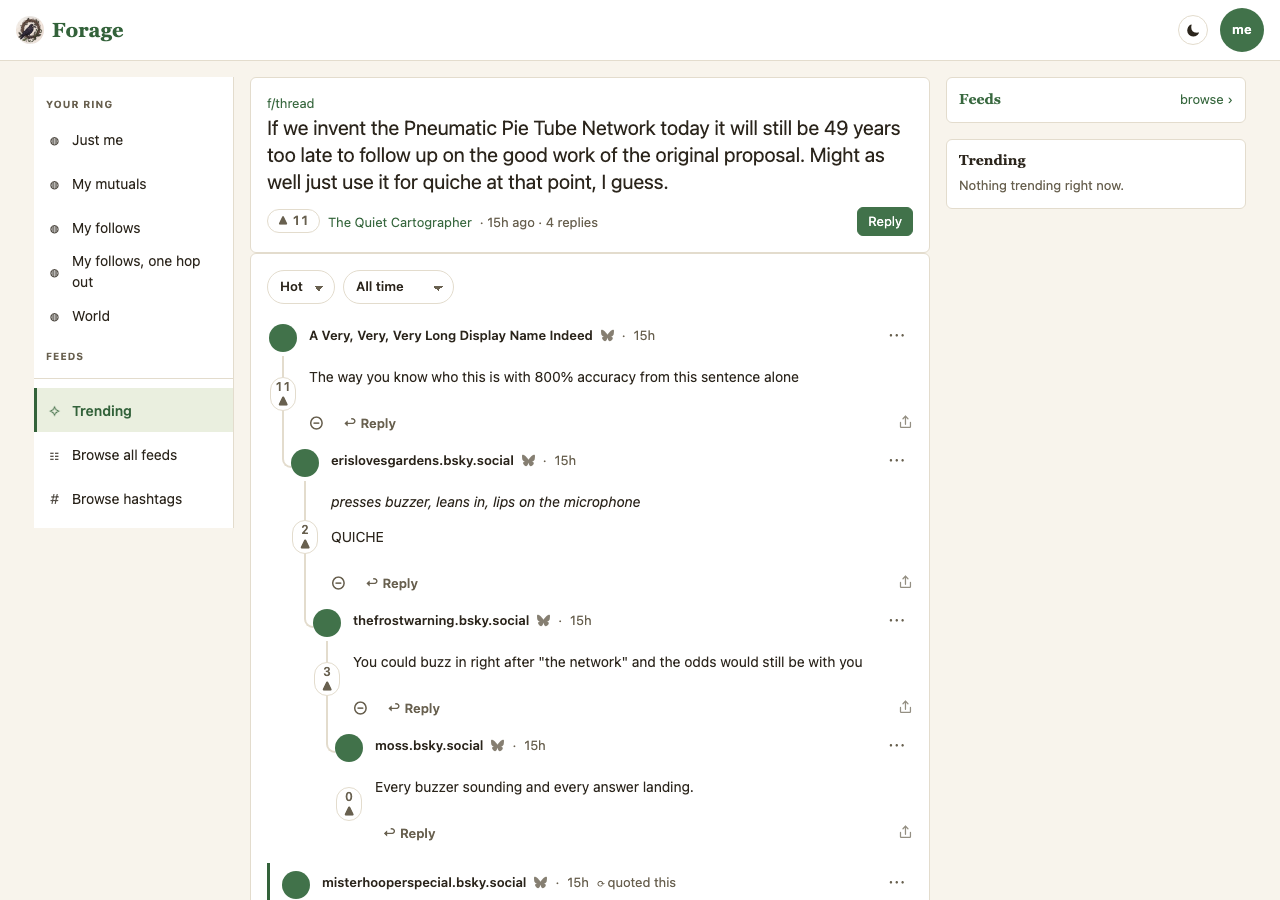
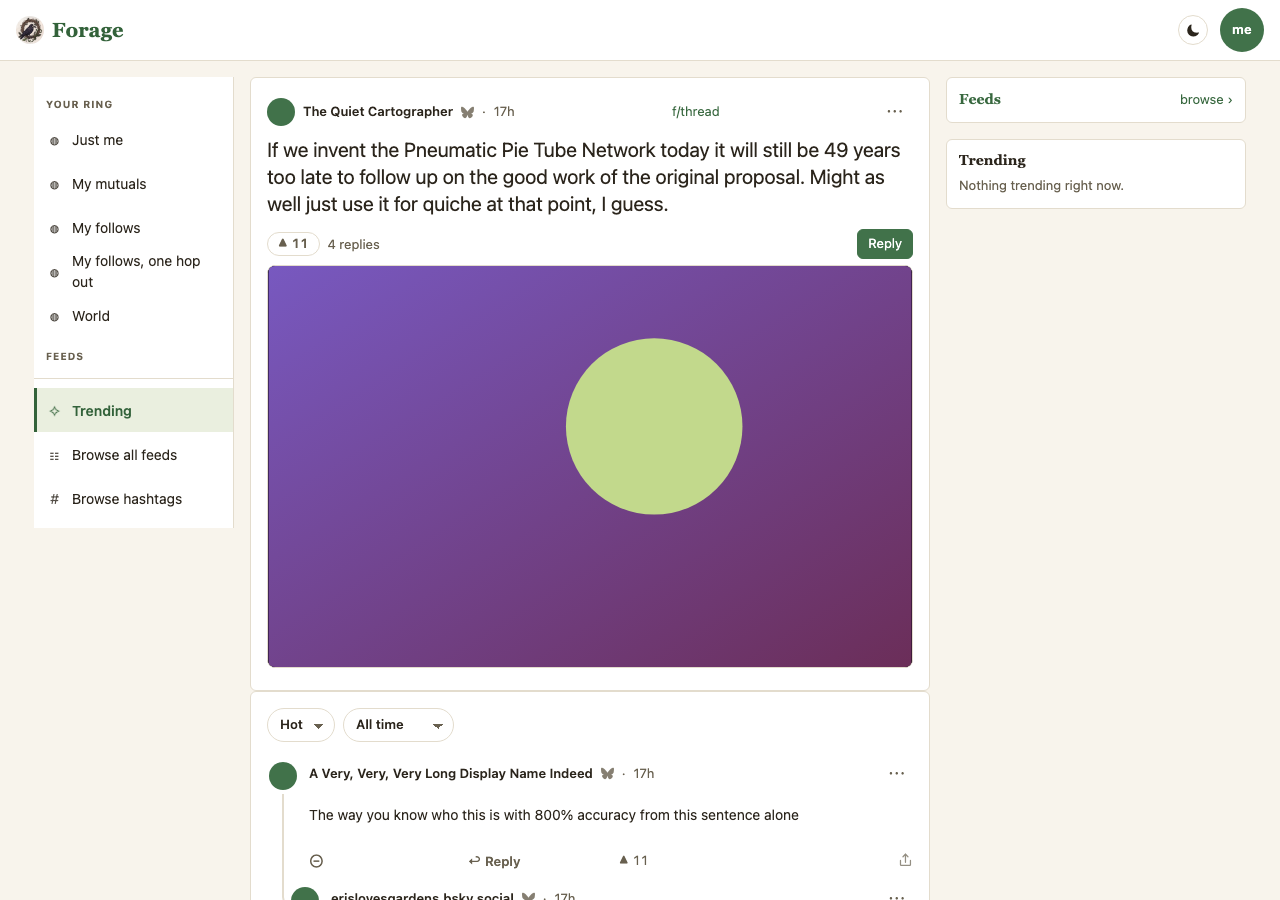
mocks: feed-row v11 — Reply at the bottom, the quote's own bar, Browse hides inactive (decisions 23, 24, 26); 25 designed; F–K filed; captured
Current re-captured at main ad29be5 under the new population (the root
carries a picture), Proposed forage@7d138e0: thread-lens and a new
thread-lens-quote route, both viewports.

Claude-Session: https://claude.ai/code/session_01JJMobiGXqKABdRYsHV8fNn

Changed region(s): [[0.1875, 0.0933, 0.7188, 1.0], [0.6875, 0.9956, 0.7188, 1.0]]

diff --git a/plans/mocks/feed-row.html b/plans/mocks/feed-row.html
@@ -3,10 +3,10 @@
 <head>
 <meta charset="utf-8">
 <meta name="viewport" content="width=device-width,initial-scale=1">
-<title>Forage Feed Row Proposals v10</title>
-<meta name="mock-version" content="10">
+<title>Forage Feed Row Proposals v11</title>
+<meta name="mock-version" content="11">
 <meta name="mock-baseline" content="forage@ad29be5">
-<meta name="mock-proposal" content="forage@ba62395">
+<meta name="mock-proposal" content="forage@7d138e0">
 <style>
 :root{--page-bg:#EFE9DE;--page-card:#F8F4EC;--page-ink:#2B251C;--page-muted:#6B6252;--page-line:#DED5C4;--page-accent:#33623A;
   --f-body:system-ui,-apple-system,"Segoe UI",Roboto,sans-serif;--f-display:ui-serif,Georgia,"Times New Roman",serif}
@@ -43,13 +43,13 @@ code{font-size:.92em}
 <body>
 <div class="wrap">
   <header>
-    <div class="eyebrow">Forage · mock · feed-row <b>v10</b> · Current forage@ad29be5 · Proposed forage@ba62395 · 2026-08-30</div>
+    <div class="eyebrow">Forage · mock · feed-row <b>v11</b> · Current forage@ad29be5 · Proposed forage@7d138e0 · 2026-08-30</div>
     <h1>The feed row, made to agree with the phone</h1>
-    <p class="sub"><b>One proposal in twenty-two decisions, for one purpose:</b> the lens feed row on forage.fyi should look the way the owner's phone expected it to, with Bluesky's own row as the reference — and this time the thing being agreed on is the app, not a drawing.
+    <p class="sub"><b>One proposal in twenty-six decisions (four new since v9: 22–24 and 26; 25 is designed and next), for one purpose:</b> the lens feed row on forage.fyi should look the way the owner's phone expected it to, with Bluesky's own row as the reference — and this time the thing being agreed on is the app, not a drawing.
       Origin: six phone screenshots of forage.fyi and bsky.app taken 2026-08-30 16:17–16:28 (phpBB skin, <code>f/whats-hot</code> and two threads), plus a desktop pair (<code>/u/pds.ls</code> → <code>f/pds.ls</code> → "Unknown feed").
       They showed: the picture the thread page renders missing from the feed; a post's text set as a bold heading; and an action row whose share arrow wrapped under "7315 · 270 comments · 1225", with the dashed like box two lines tall beside it.
       <b>None of it was visible in board-cards v9's captures</b> — default skin, card density, "1284 · 40 comments · 12".</p>
-    <p class="sub"><b>Every frame on this page is a capture of the engine</b> (MOCKS.md P1): Current is <code>main</code> at <code>ad29be5</code> (v1–v9 landed there; v10 measures against it), Proposed is <code>claude/feed-row-hover</code> at <code>ba62395</code>, both by <code>scripts/mock-snaps.mjs</code> against <code>e2e/harness/mock-board.mjs</code> / <code>mock-thread.mjs</code>, in the default skin (rule 4) — and, from v4 at the owner's ask, § H shows the board, the thread and the reply page in three skins (Forage light, Forage dark, phpBB — the phone's), at 390 × 844 and 1280 × 900.
+    <p class="sub"><b>Every frame on this page is a capture of the engine</b> (MOCKS.md P1): Current is <code>main</code> at <code>ad29be5</code> (v1–v9 landed there; v10 measures against it), Proposed is <code>claude/feed-row-hover</code> at <code>7d138e0</code> (plan <code>2026-08-30-plan-feed-row-pointer-reply-quotes</code>), both by <code>scripts/mock-snaps.mjs</code> against <code>e2e/harness/mock-board.mjs</code> / <code>mock-thread.mjs</code>, in the default skin (rule 4) — and, from v4 at the owner's ask, § H shows the board, the thread and the reply page in three skins (Forage light, Forage dark, phpBB — the phone's), at 390 × 844 and 1280 × 900.
       The population now carries the phone's load (P2): a row with 7315 likes, 270 replies and 1225 reposts, a four-line text-plus-picture post, and (v2) the names people choose at the widths the network allows — a 64-grapheme name, an emoji name, no name, and one that impersonates. Nothing here is drawn; there is no sketch to fall short of.</p>
   </header>
 
@@ -67,13 +67,13 @@ code{font-size:.92em}
         <tr><td>6</td><td><b>The byline shows the name a person chose</b> (v2, owner 2026-08-30)</td><td>The row, the thread head and every comment show <code>displayName</code>; the handle is the name's tooltip (<code>@quietcartographer.bsky.social</code>) and part of its accessible name. No chosen name → the handle shows. A 64-grapheme name ellipsises on its one line.</td><td><b>Name, then the handle muted after it</b> (bsky.app's row — the handle visible, not one hover away). Recorded because a display name is not unique: the second row on the phone frame reads <b>"Bluesky 🦋"</b> and is <code>averyveryverylonghandle.bsky.social</code>. The tooltip is the only tell on this branch.</td><td>every byline since post-and-thread's header line</td></tr>
         <tr><td>7</td><td><b>A provider mark beside the name, switchable</b> (v2)</td><td>A text-sized muted glyph right after the name: the butterfly for a <code>*.bsky.social</code> handle, an atmosphere ring for anyone else, the provider in its tooltip ("atmo provider: bsky.social"). Settings → <b>Provider mark</b> switches it off (device-local, on by default).</td><td>Resolve the author's real atmo provider from the DID document (plc.directory, one fetch per author, cached) — the honest mark for custom-domain handles, which today get the ring and a tooltip saying the handle does not show the provider. Recorded as the follow-on, not built.</td><td>DESIGN.md's noun is kept: <i>atmo provider</i>, never <i>server</i>/<i>PDS</i>; the butterfly is a mark for one provider, not Bluesky-as-category</td></tr>
         <tr><td>8</td><td><b>The share glyph</b> (v3, owner 2026-08-30: "I really don't like that bottom right share icon")</td><td>The tray-with-arrow-up line icon board-cards v5 drew (<code>#i-share</code>; the shape bsky.app and iOS use), at 1.15em and 70% at rest, on rows and comments alike — one weight with the other three. The ↗ text glyph is gone.</td><td>A chain link — the button does copy a link; or the arrow-out-of-box at full opacity</td><td>post-and-thread decision 10 kept its placement (last on the row) and its accessible name; only the glyph and the rest opacity (55 → 70%) moved</td></tr>
-        <tr><td>9</td><td><b>The head's Reply sits at the right</b> (v4, owner: "put reply on the right side")</td><td>At the right end of the like's row (<code>▲ 11 · name · 15h ago · 4 replies … Reply</code>); the row keeps one line — the meta yields before Reply drops, and the pill keeps its shape.</td><td>Reply under the post as before, right-aligned</td><td>post-and-thread's head layout</td></tr>
+        <tr><td>9</td><td><b>The head's Reply sits at the right</b> (v4, owner: "put reply on the right side") — <b>superseded by 23</b> (v11): still at the right, now at the bottom of the head</td><td>At the right end of the like's row (<code>▲ 11 · name · 15h ago · 4 replies … Reply</code>); the row keeps one line — the meta yields before Reply drops, and the pill keeps its shape.</td><td>Reply under the post as before, right-aligned</td><td>post-and-thread's head layout</td></tr>
         <tr><td>10</td><td><b>Replying to a post is a page</b> (v4)</td><td><code>/reply?uri=&root=[&from=]</code>: breadcrumb, the post you are answering (byline, text, picture) walled like a quote, then the box — Send · Cancel, a counter. Sent or cancelled, you land back on the thread. Text only in v4 (O7).</td><td>Keep the composer unfolding under the head</td><td>the head's inline composer is gone; the composer (with images) still serves new posts</td></tr>
         <tr><td>11</td><td><b>A draft is kept in this browser</b> (v4, owner: "save drafts … local browser stash or the native bsky version")</td><td>Per post answered (<code>forage.draft:&lt;uri&gt;</code>): saved as you type, survives Cancel and a reload, cleared on Send, "Discard draft" throws it away; the box says "Draft saved in this browser · 20:15".</td><td><b>Bluesky's own drafts</b> (<code>app.bsky.draft.createDraft / updateDraft / getDrafts / deleteDraft</code>, private stash, needs a session). Read from the published lexicon 2026-08-30: <code>defs#draft</code> carries <code>deviceId, deviceName, posts, langs, postgateEmbeddingRules, threadgateAllow</code> — <b>no reply target</b>. A native draft would keep the words and forget which post they answer, so the parent must live locally regardless. Recorded as O8, not built.</td><td>nothing decided before</td></tr>
         <tr><td>12</td><td><b>Under a comment, a quick box</b> (v4, owner: "a simple text box to drop down with a send or cancel")</td><td>Textarea · Send · Cancel and a counter, nothing else; Cancel folds it and keeps the words as the same kind of draft; reopened, they are back.</td><td>The full composer under the comment (today)</td><td>post-and-thread decision 2's row keeps ↩ Reply; what opens changed</td></tr>
         <tr><td>13</td><td><b>The frontier chips are off the board</b> (v4, owner: "what's this content about? … we can just remove that")</td><td>The dashed <code>likes-only scores (DL-011)</code> and <code>ranking: feed order (DL-010)</code> chips over a board named entries of the divergence ledger (<code>ledger/divergence.js</code>) — "this surface knowingly differs from the memory-tier spec" — for whoever compares the two tiers. A reader gets nothing from them. Gone from every reader-facing board; the ledger and <code>/frontiers</code> keep them.</td><td>Keep them behind the dev bar's Frontiers toggle</td><td>the lens board header</td></tr>
         <tr><td>14</td><td><b>The sort's first choice is "Default"</b> (v5, owner: 'change "Feed order" to "Default"')</td><td>The board's sort select reads Default · Hot · New · Top. "Default" is the order the feed's own generator hands us (DL-010's fact, without the ledger's vocabulary).</td><td>"Feed order" (today); "As curated"</td><td>the sort bar's wording (plan 2026-08-26 feed-discovery-sorts)</td></tr>
-        <tr><td>15</td><td><b>The thread head opens with the byline</b> (v6, owner: "move the name here to the human display name in the top left and put the f/threads content on the top right")</td><td>Avatar · chosen name (handle in the tooltip) · provider mark · time on the left; the board's breadcrumb (and NSFW) right-aligned beside the ⋯, which keeps the corner (post-and-thread decision 7); then the text; then <code>▲ 11 · 4 replies … Reply</code>.</td><td>Breadcrumb above the text, author under it (v5)</td><td>post-and-thread's head; the head gains the ⋯ menu every row has</td></tr>
+        <tr><td>15</td><td><b>The thread head opens with the byline</b> (v6, owner: "move the name here to the human display name in the top left and put the f/threads content on the top right")</td><td>Avatar · chosen name (handle in the tooltip) · provider mark · time on the left; the board's breadcrumb (and NSFW) right-aligned beside the ⋯, which keeps the corner (post-and-thread decision 7); then the text; then <code>4 replies … ▲ 11</code> (Reply moved to the bottom of the head — decision 23, v11).</td><td>Breadcrumb above the text, author under it (v5)</td><td>post-and-thread's head; the head gains the ⋯ menu every row has</td></tr>
         <tr><td>16</td><td><b>The reply box is bsky's shape</b> (v6, owner: "a 300char count thing like in bsky, bottom right … image, gif, emoji selectors like at the bottom left")</td><td>Cancel · Send on top; the box; <b>image · GIF · emoji</b> bottom-left as line icons; the <b>count with its ring</b> bottom-right (300, red past it). Image is the composer's own picker, shared now (<b>O7 closed</b>); <b>GIF</b> takes a <code>.gif</code> from the device; emoji is a hermetic palette that inserts at the caret. The quick box keeps only its count.</td><td>Tools on the quick box too; a GIF <i>search</i> (Tenor through a proxy, as bsky.app does) — an external API nobody here has verified, so O9, not a dead button</td><td>v4's text-only box</td></tr>
         <tr><td>17</td><td><b>The feed card is one line, outlined, linking out</b> (v7, owner: '"123 likes curated by @bsky.app" > description … a bit of a highlight outline … make bsky.app a link out')</td><td><code>39.4k likes</code> at the left and <code>Curated by <u>@bsky.app</u></code> right-aligned on the same line (v8, owner), the curator a link to their bsky.app profile (new tab); the feed's description quoted under it as before; the card outlined in the brand ink with a soft ring.</td><td>Two lines as before; the curator linking to our own <code>/u/</code> page</td><td>the feed header card (3p)</td></tr>
         <tr><td>18</td><td><b>No feed line under a lens row</b> (v7, owner: "I don't like where the f/whats-hot is … it's just the same thing on every single post")</td><td>On a lens board every row's feed IS the board, so the line is gone from lens rows (and no empty line is left). The memory tier's mixed <code>/popular</code> keeps its crumb. <b>O4 closed.</b> Decision 5's <code>@handle</code> crumb on author boards went with it — the profile header names the board.</td><td>Show it only where a row's feed differs from the board (nowhere on the lens today)</td><td>O4; decision 5</td></tr>
@@ -81,10 +81,16 @@ code{font-size:.92em}
         <tr><td>20</td><td><b>A comment's like is on its action row</b> (v9, owner: "we agreed to move away from the upvote in the thread line and to put it in the middle of the comment at the bottom similar to other places")</td><td>The pill sits on the comment's action row right before share — fold · ↩ Reply · ▲ 11 · share, equal cells like a post row's (third of four under a comment with children, the middle one otherwise). Nothing sits in the avatar column but the avatar and the rail. <b>Retires post-and-thread decision 1's column stack</b> (2026-08-29) and the 'stack' layout of the vote control.</td><td>Keep the stack in the column (as drawn 2026-08-29)</td><td>post-and-thread decision 1; the mock-thread, no-downvote and bluesky-view claims that measured the column</td></tr>
         <tr><td>21</td><td><b>The replies link shows the hand</b> (v9, owner: "neither repost nor comment icon show the hand for selection like the upvote")</td><td><code>a.cbtn</code> gets the pointer — the replies link is a control and inherited <code>.cbtn</code>'s arrow cursor. The <b>repost glyph keeps the arrow</b> on purpose: on a row it is a <i>count</i>, not a control (post-and-thread O2 — no repost write from a row). Making it one is <b>O11</b>.</td><td>A repost control on every row (bsky.app's) — <code>lens.repost</code> exists; it is a write the row was kept from on purpose</td><td>nothing decided before on the cursor; O2 on the repost</td></tr>
         <tr><td>22</td><td><b>The row under the pointer lights; its text does not underline</b> (v10, owner: "we give a mouseover underline … bsky and reddit both give a subtle highlight to the moused over card and that's a better model … we'll have to bake a representation into every skin")</td><td>On a device with a pointer, <code>.postrow:hover</code> paints <code>--row-hover</code> and the row's text keeps its resting look (the global <code>a:hover</code> underline no longer reaches it). A control on a lit row still shows a hover of its own (the ink mixed 10% over the lit ground). <b>Every skin declares its own <code>--row-hover</code></b>, graded by the gate: ≥ 3 L* off the row's resting ground (its stripe where the skin stripes, the card otherwise), ≤ 12 L* so it reads as a hover and not a selection, AA for text, muted and link on it. Fenced by <code>(hover: hover)</code>: a phone's last tap does not leave a row lit.</td><td>Keep the underline and add the highlight; or one universal ink-overlay (<code>color-mix</code> of <code>--text</code> at 5%) instead of a per-skin value — cheaper, but not a value a skin author chooses</td><td>nothing decided before on hover; SKINS.md's role vocabulary gains <code>row-hover</code>, the one role with a value of its own rather than a passthrough</td></tr>
+        <tr><td>23</td><td><b>Reply alone at the bottom of the head; the like stays up, at the right</b> (v11, owner: "move the reply button to the bottom of this top post comments page section … just reply alone, like should be top towards the right")</td><td>The like row under the text keeps <code>N replies</code> at the left and <code>▲ N</code> at its right end; <b>Reply</b> is the last thing in the head — under the picture, the post's own continuation and its quote — right-aligned. On a post with a continuation and a quote the like row had split the post from the rest of itself.</td><td>Move the whole like row to the bottom (bsky.app's shape) — offered, the owner chose Reply alone</td><td><b>Supersedes decision 9</b> (Reply at the right end of the like's row) and the "then the like row (… Reply)" clause of decision 15</td></tr>
+        <tr><td>24</td><td><b>The quote's bar is on the quote only</b> (v11, owner: "I only want the pronounced left side quote bar on the actual repost, not on all of its comments, they can thread just like a normal comment — we are treating the repost with content like a top level comment but with a visual indicator it's a repost and so has its own parallel thread")</td><td>The wall is an element over the quote's own three rows — byline, text, action row — at its left edge (<code>span.wall</code>, a grid item), not a border on the node: a border ran down every reply threaded under it. Replies keep the indent and thread like any reply. Verified against the network first: funkelly's post is a <i>quote</i> of jcsalterego's (embed.record, 2 reposts, 0 quotes), matrixman124's an ordinary reply to it — the screenshot's shape.</td><td>Keep the border and tint the replies differently</td><td>post-and-thread decision 5 (the walled quote) — the wall stays; its extent changes</td></tr>
+        <tr><td>26</td><td><b>Browse feeds hides inactive feeds by default</b> (v11, owner: "let's make the hide inactive on browse all feeds the default")</td><td><i>Hide inactive</i> starts checked for the popular list as it already did for search. The count line still says what went — on the live list that day <b>46 of 111</b> (30 stale, 3 empty, 13 that did not answer) — and unchecking brings them back. No frame: a default, not a shape; held by the signin workflow.</td><td>Leave it off for the curated list (4d's reasoning) — but 41% of it was dead</td><td>4d (on for search only)</td></tr>
         <tr><td>5</td><td><b>An author board's row points home</b> (desktop pair)</td><td>On <code>/u/&lt;handle&gt;</code> a row's breadcrumb reads <code>@handle</code> and opens <code>/u/&lt;handle&gt;</code>. Before: <code>f/pds.ls</code> → <code>/f/pds.ls</code> → "Unknown feed — this link is missing the feed's creator".</td><td>Resolve <code>/f/&lt;handle&gt;</code> as an author board when the slug looks like a handle (also fixes old links; not done here)</td><td>nothing decided before — a gap</td></tr>
       </tbody>
     </table></div>
     <div class="callout"><h3>Open — not built, the owner's call</h3><ul>
+      <li><b>O13 → decision 25, designed, next to build</b> (owner, 2026-08-30: "the same button for us should just popup with a dialogue that allows us to add commentary or not and if we hit post without then it's just a plain repost"). ⟳ on any node opens a sheet with an optional box and one Post: words → a Bluesky <i>quote post</i> (a post embedding that node), shown in the thread under the node it quotes with the ⟳ tell and its own bar; no words → a plain repost, which appears in no thread; <i>Remove repost</i> when already reposted. The number on ⟳ becomes reposts + quotes — bsky.app's figure (<code>social-app/src/components/PostControls/index.tsx</code>, read 2026-08-30). A write to the account: its own commit, checked against the test account.</li>
+      <li><b>O14 — the quote's action row carries five controls in four cells</b> (fold · Reply · ⟳ · ▲ · share; the phone frame in J shows Reply and ⟳ 0 touching). Not new in v11 — found by the frame. <i>Decision 25 reshapes this row (⟳ on every node), so it is fixed there rather than twice.</i></li>
+      <li><b>Filed for the next revisions</b> (plan phases F–K, the owner's screenshots of 2026-08-30 evening): <b>27</b> a classic Bluesky skin, the like as a heart (a glyph token); <b>28</b> "Open on bsky.app" opens on the signed-in provider's app when the registry names one; <b>29</b> a YouTube link plays in place and is clearly YouTube; <b>30</b> a native Bluesky video plays in place (HLS — a dependency decision first); <b>31</b> the external link card's picture centred (a link to a book); <b>32</b> the row's byline a step larger.</li>
       <li><b>O12 — the hashtags, twice.</b> (owner, 2026-08-30: "I don't love how we extract every hashtag and present it under and have it in the original, it's not helpful and it's confusing"). A text post's tags sit in its text AND as a chip row under its picture (<code>tagChips</code>, kept since 3i for rows with no preview to carry the doorways). Three ways out: <b>(1) Bluesky's — no chip row</b>, the tags stay in the text as links to <code>/h/…</code>; <b>(2) fold the tail</b> — a trailing run of nothing-but-tags is cut from the text and shown once as chips, a tag inside a sentence stays put (edits the author's words; needs a rule for one trailing tag that ends a sentence, and for line breaks); (3) chips only, every tag stripped from the text — breaks sentences. <i>Recommend: 1 now, 2 only if the tag dumps still bother once the chips are gone. Awaiting the owner's word; built as decision 23 when it comes.</i></li>
       <li><b>O0 — the handle's visibility (decision 6's alternative).</b> As built, an impersonating name is caught only by hovering. <i>Recommend: the muted handle after the name, at least on the row — it costs one line nothing on desktop and ellipsises on a phone; say the word and v3 captures it.</i></li>
       <li><b>O7 — images on a reply.</b> <b>Closed in v6</b> (decision 16): the page carries the composer's picker; the quick box stays text.</li>
@@ -247,6 +253,33 @@ code{font-size:.92em}
   </section>
 
   <section>
+    <div class="eyebrow">Proposal J</div>
+    <h2>J. The thread head — Reply at the bottom, the like at the right; the quote's own bar (v11)</h2>
+    <p class="sub">The fixture's post now carries a picture (a new population, so <b>Current is re-captured too</b> — both columns at the same load). Current: Reply on the like row above the picture. Proposed: <code>4 replies … ▲ 11</code> under the text, the picture, then <b>Reply</b> at the bottom right. The second pair scrolls to the quote-response: Current's bar runs down the reply under it; Proposed's stops at the quote's own action row and the reply threads beneath it like any reply.</p>
+    <div class="stage">
+      <div class="device phone"><div class="device-label">Phone · thread-lens · CURRENT (forage@ad29be5)</div>
+        <img class="shot" src="snaps/feed-row/thread-lens.phone.current.png" alt="Thread head today: the like row with Reply at its right sits between the text and the picture" width="390"></div>
+      <div class="device phone"><div class="device-label">Phone · thread-lens · PROPOSED (forage@7d138e0)</div>
+        <img class="shot" src="snaps/feed-row/thread-lens.phone.proposed.png" alt="Thread head on the branch: replies count and the like under the text, the picture, Reply at the bottom right" width="390"></div>
+    </div>
+    <div class="stage">
+      <div class="device phone"><div class="device-label">Phone · thread-lens-quote · CURRENT (forage@ad29be5)</div>
+        <img class="shot" src="snaps/feed-row/thread-lens-quote.phone.current.png" alt="The quote-response today: its bar runs down the reply threaded under it" width="390"></div>
+      <div class="device phone"><div class="device-label">Phone · thread-lens-quote · PROPOSED (forage@7d138e0)</div>
+        <img class="shot" src="snaps/feed-row/thread-lens-quote.phone.proposed.png" alt="The quote-response on the branch: the bar on its own rows only; the reply beneath it threads like any reply" width="390"></div>
+    </div>
+    <div class="stage">
+      <div class="device desk"><div class="device-label">Desktop · thread-lens · CURRENT (forage@ad29be5)</div><img class="shot" src="snaps/feed-row/thread-lens.desktop.current.png" alt="Thread at 1280 today"></div>
+      <div class="device desk"><div class="device-label">Desktop · thread-lens · PROPOSED (forage@7d138e0)</div><img class="shot" src="snaps/feed-row/thread-lens.desktop.proposed.png" alt="Thread at 1280 on the branch"></div>
+    </div>
+    <div class="stage">
+      <div class="device desk"><div class="device-label">Desktop · thread-lens-quote · CURRENT (forage@ad29be5)</div><img class="shot" src="snaps/feed-row/thread-lens-quote.desktop.current.png" alt="The quote-response at 1280 today"></div>
+      <div class="device desk"><div class="device-label">Desktop · thread-lens-quote · PROPOSED (forage@7d138e0)</div><img class="shot" src="snaps/feed-row/thread-lens-quote.desktop.proposed.png" alt="The quote-response at 1280 on the branch"></div>
+    </div>
+    <div class="callout"><p><b>Found by the frame, fixed before this capture:</b> the first Proposed capture printed the word <b>null</b> above every comment's byline — the wall's placeholder handed to <code>Element.append</code> as a null child, the v7 board trap again. Now a claim on every comment (a text-node walk: <code>hasText</code>'s word boundary never finds "nullA Very…" — measured).</p></div>
+  </section>
+
+  <section>
     <div class="eyebrow">What the frames claim, and what holds it</div>
     <h2>Claims → checks (MOCKS.md P5)</h2>
     <div class="tablewrap"><table>
@@ -277,6 +310,10 @@ code{font-size:.92em}
         <tr><td>25</td><td>Signed in, every comment's like is a button on its action row right before share, Reply before it, the row one line; nothing votes from the avatar column</td><td>structure · measure</td><td>mock-thread — Claim B (v9); <code>no-downvote</code> — "the like sits on the action row's line" / "right before share"; <code>bluesky-view</code> — "the quote carries the like on its action row"</td></tr>
         <tr><td>26</td><td>The replies link and the like show the pointer; the repost count does not</td><td>look</td><td>mock-board — "the replies link shows the hand" / "the like shows the hand" / "the repost count does not pretend to be a control"</td></tr>
         <tr><td>27</td><td>Under the pointer the row paints the skin's <code>--row-hover</code>, its text does not underline, a control on the lit row shows its own hover, and the row the pointer left is back at rest</td><td>look · behaviour</td><td>mock-board — "the row under the pointer is not lit" / "the lit row paints … not the skin's --row-hover" / "the row's text underlines under the pointer" / "the like on a lit row shows no hover of its own" / "the row the pointer left is not back at rest"; <code>test/skins.test.js</code> — "EVERY skin bakes its own row hover" (≥ 3 L*, ≤ 12 L*, AA on text · muted · link); RED without the CSS: rgba(0,0,0,0) at rest and under the pointer</td></tr>
+        <tr><td>28</td><td>Reply is the last thing in the head, right-aligned, under the picture, off the like row; the like is at the right end of its row</td><td>structure · measure</td><td>mock-thread — "Reply is still on the like row" / "Reply is not the last thing in the head" / "Reply sits under the picture" / "Reply is not at the right edge of the head" / "the like is not at the right end of its row"; RED on main: "Reply is still on the like row"</td></tr>
+        <tr><td>29</td><td>The quote's wall is an element covering its own text and stopping before its replies; a reply is not walled; a nested quote is walled</td><td>look · measure</td><td>mock-thread — "the quote draws its wall as its own element" / "the wall covers the quote’s own text" / "the wall runs down the quote’s replies"; <code>bluesky-view</code> — "the quote carries a left wall" / "a reply is NOT walled" / "a wall nests inside a wall"; RED on main: a 3px border on the node</td></tr>
+        <tr><td>30</td><td>Browse feeds starts with Hide inactive checked; the line says how many went; unchecking restores all five</td><td>behaviour</td><td><code>signin</code> — "hide-inactive defaults ON for browse" (RED on main), then "of 5 feeds. Hiding", then "All 5 feeds Bluesky lists as popular."</td></tr>
+        <tr><td>31</td><td>No comment prints a stringified null or undefined</td><td>structure</td><td>mock-thread — "a comment prints a stringified null or undefined" (a text-node walk; proved to detect an injected one)</td></tr>
         <tr><td>16</td><td>No frontier chips over a reader's board</td><td>structure</td><td>mock-board — "no frontier chips over a reader’s board"</td></tr>
         <tr><td>8</td><td>An author board's breadcrumb is <code>@handle</code> → <code>/u/handle</code></td><td>structure</td><td><code>test/lens-intake.test.js</code> — "rows carry the kind of source they came from"; <code>bluesky-view</code> — "an author board's breadcrumb opens the author board"</td></tr>
       </tbody>
@@ -308,6 +345,10 @@ code{font-size:.92em}
         <tr><td>20 the comment's like</td><td><code>components.js</code> <code>vote()</code> (one layout), <code>commentNode</code> (the like appended before share); <code>css/app.css</code> <code>.comment-actions</code> grid, <code>.avvote</code> rules removed</td></tr>
         <tr><td>21 the hand</td><td><code>css/app.css</code> <code>button.cbtn, a.cbtn { cursor: pointer }</code></td></tr>
         <tr><td>22 the lit row</td><td><code>css/tokens.css</code> <code>--row-hover</code>; <code>css/app.css</code> <code>@media (hover: hover) .postrow:hover</code> + the control's mix, <code>.posttitle a:hover</code>; every file in <code>skins/</code>; <code>docs/SKINS.md</code> (the sixteenth role); <code>test/skins.test.js</code>; <code>scripts/mock-snaps.mjs</code> <code>board-lens-hover</code></td></tr>
+        <tr><td>23 Reply at the bottom</td><td><code>js/ui/lens-views.js</code> <code>lensThreadView</code> (the like row: postmeta then vote; <code>.head-reply</code> after the quote); <code>css/app.css</code> <code>.head-reply</code></td></tr>
+        <tr><td>24 the quote's bar</td><td><code>js/ui/components.js</code> <code>commentNode</code> (<code>span.wall</code> for a quote); <code>css/app.css</code> <code>.comment.quote > .wall</code> (grid rows 1–3), the border removed</td></tr>
+        <tr><td>26 hide inactive</td><td><code>js/ui/lens-views.js</code> Browse feeds (<code>hideDead = true</code> on load)</td></tr>
+        <tr><td>the population</td><td><code>e2e/harness/mock-thread.mjs</code> — the root carries a picture (<code>view</code>: a post-level embed view; <code>img</code>/<code>images</code> exported from <code>mock-board.mjs</code>); <code>scripts/mock-snaps.mjs</code> <code>thread-lens-quote</code></td></tr>
         <tr><td>the captures</td><td><code>scripts/mock-snaps.mjs</code> — a <code>board-lens-compact</code> route; <code>--out plans/mocks/snaps/feed-row</code> so this mock's files never overwrite another mock's (the first run of this session did exactly that — see MOCKS.md rule 3)</td></tr>
       </tbody>
     </table></div>
@@ -316,6 +357,7 @@ code{font-size:.92em}
   <section>
     <div class="eyebrow">Revisions</div>
     <ul class="small" style="margin:0;padding-left:18px">
+      <li><b>v11</b> — 2026-08-30, later: decisions 23, 24, 26 — Reply alone at the bottom of the head (9 superseded), the quote's bar on the quote only, Browse hides inactive by default; 25 designed (O13); phases F–K filed. The fixture's post gained a picture, so Current was re-captured with Proposed (<code>forage@7d138e0</code>); a <code>thread-lens-quote</code> route. The frame caught a stray "null" on every comment before capture.</li>
       <li><b>v10</b> — 2026-08-30 (the owner's desktop: the underline; bsky.app and reddit beside it): decision 22 — the row under the pointer lights with a per-skin <code>--row-hover</code>, the text no longer underlines; O12 (the hashtags twice) filed with three options. Current re-captured at main <code>ad29be5</code> (v9 landed), Proposed <code>forage@ba62395</code>; a <code>board-lens-hover</code> desktop frame, plus Forage dark and phpBB.</li>
       <li><b>v9</b> — 2026-08-31: decisions 20–21 — the comment's like joins its action row (the column stack retired); the replies link shows the hand, the repost count does not (O11 filed). Proposed <code>forage@e255fe5</code>.</li>
       <li><b>v8</b> — 2026-08-31: the curator right-aligned on the likes line (owner); Proposed <code>forage@ce5a415</code>. The dropped period reached <code>signin.workflow</code>'s selector — fixed there.</li>
